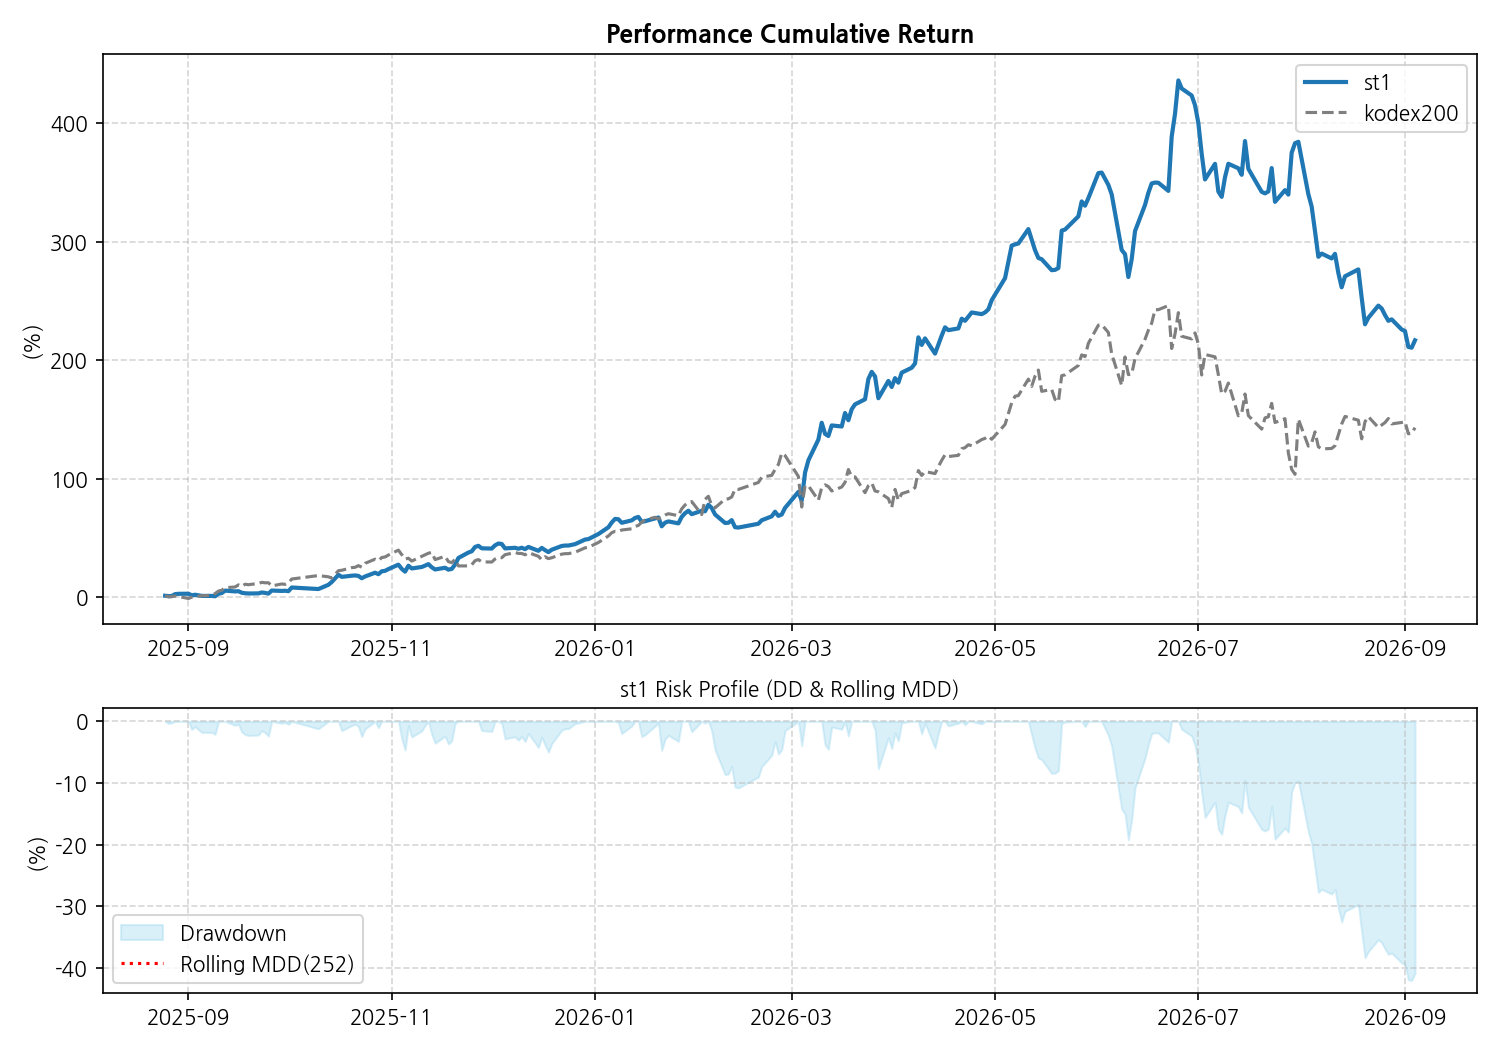
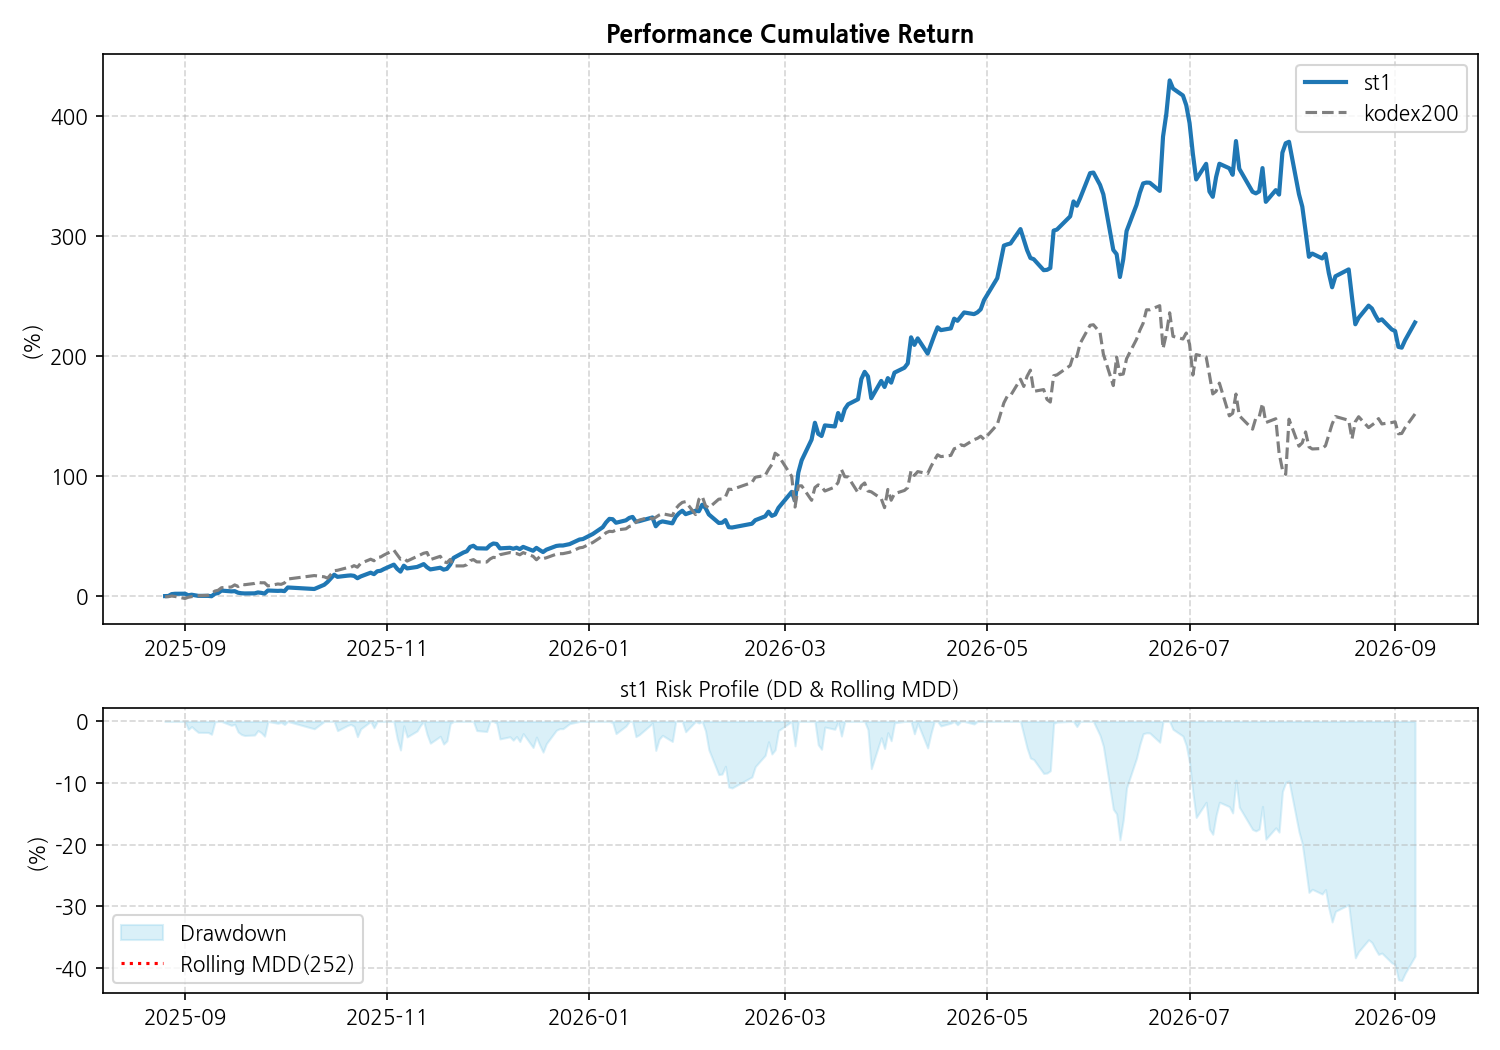
Auto commit

diff --git a/_pages/bt/bt_kodex.md b/_pages/bt/bt_kodex.md
@@ -2,7 +2,7 @@
 layout: post
 title: "BT, 오늘의 시그널(ETF)"
 author: Best Investor
-date: 2026-09-04
+date: 2026-09-07
 category: BT
 mermaid: true
 parent: 포트폴리오
@@ -14,14 +14,14 @@ parent: 포트폴리오
 
 | 지표 | 전략 1 (S1) | 전략 2 (S2) | 차이 (Diff) |
 | :--- | :---: | :---: | :---: |
-| **오늘 수익률** | 2.0% | 2.03% | -0.03% |
-| **30일 수익률** | -31.46% | -7.79% | -23.67% |
-| **1년 수익률** | 216.82% | 143.07% | 73.75% |
-| **전체 수익률** | 939.17% | 243.85% | 695.32% |
+| **오늘 수익률** | 4.75% | 4.78% | -0.03% |
+| **30일 수익률** | -23.48% | 2.93% | -26.41% |
+| **1년 수익률** | 227.97% | 151.62% | 76.35% |
+| **전체 수익률** | 986.08% | 262.27% | 723.81% |
 | **MDD (1Y)** | -42.08% | -41.15% | -0.93%p |
 | **MDD (ALL)** | **-42.08%** | **-41.15%** | -0.93%p |
-| **샤프 (1Y)** | 2.64 | 1.81 | 0.83 |
-| **샤프 (ALL)** | **2.27** | **1.09** | 1.18 |
+| **샤프 (1Y)** | 2.7 | 1.86 | 0.84 |
+| **샤프 (ALL)** | **2.3** | **1.13** | 1.17 |
 
 ## 📉 누적 성과 및 리스크 차트
 1. **최근 30일:** ![30일](/img_st/st_kodex_cum_risk_30d.png)

diff --git a/_posts/signal/2026-04-01-signal.md b/_posts/signal/2026-04-01-signal.md
@@ -7,6 +7,18 @@ category: Jekyll
 ---
 ## 시그널  
 
+### 📊 2026-09-08 Morning Trading Signal
+
+- 📅 날짜: 2026-09-08  
+- ⏰ 시간: 08:45  
+- 🧾 종목: **-**  
+- ⏸ 포지션: **No Trade**
+
+##### 🧭 Execution Plan
+- 🚀 진입: No Action
+- 🎯 청산: No Action
+
+
 ### 📊 2026-09-07 Afternoon Trading Signal
 
 - 📅 날짜: 2026-09-07  
